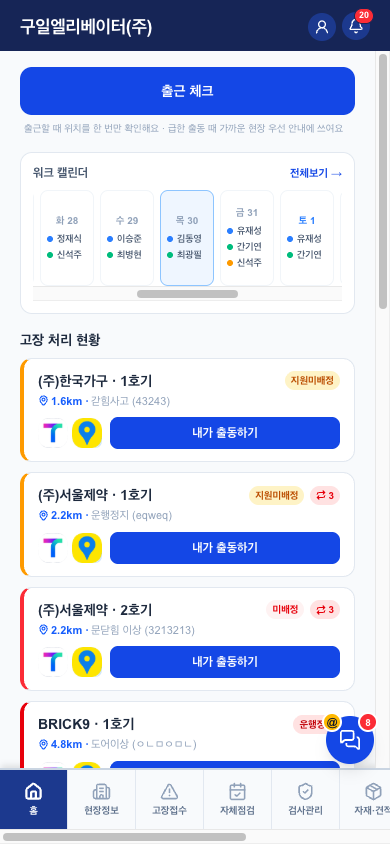
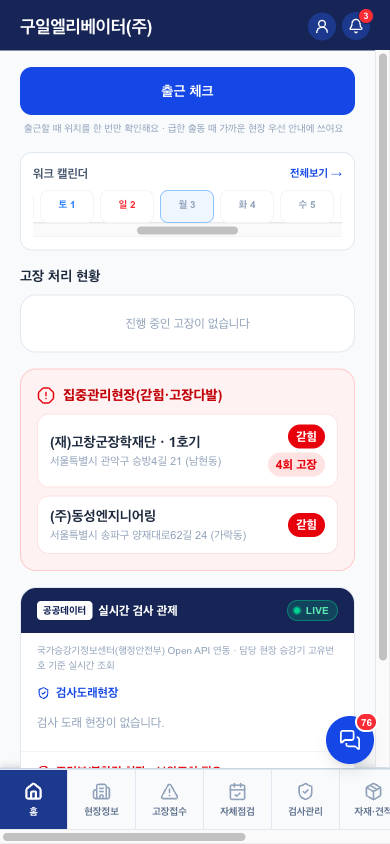
설계 문서: 공통 내비게이션 추가 + 앱 변경 반영(사이트맵 v0.2·유저플로우 v0.3)
- 모든 문서 상단에 고정 내비(설계 허브·01 PRD·02 유저플로우·03 화면지도 | 화면설계) — 현재 문서는 강조,
  screens/ 하위는 상대경로(../) 처리. 문서 간 이동이 안 돼 허브로 되돌아가야 했던 불편 해소
- 사이트맵 v0.2: 우리방→게시판 명칭 통일, 티맵·카카오 길안내 제거, 대시보드(오늘 처리할 것·미청구 KPI)·
  자재견적 취소·알림설정 27종·현장정보 업로드 도구 3종 반영
- 유저플로우 v0.3: 게시판 명칭, 고객 문자 자동발송 없음으로 정정(기능 미구현), 알림 27종·테스트 발송

diff --git a/docs/design/03-sitemap.html b/docs/design/03-sitemap.html
@@ -19,7 +19,8 @@
 </head>
 <body>
 <main>
-  <h1>화면 지도 (사이트맵) <span class="badge doing">v0.1</span></h1>
+  <nav class="docnav"><a href="index.html" class="home">설계 허브</a><span class="sep">·</span><a href="01-prd.html">01 PRD</a><span class="sep">·</span><a href="02-userflow.html">02 유저플로우</a><span class="sep">·</span><a href="03-sitemap.html" class="here">03 화면지도</a><span class="sep">|</span><span class="sep" style="font-size:11px">화면설계</span><a href="screens/login.html">로그인</a></nav>
+  <h1>화면 지도 (사이트맵) <span class="badge doing">v0.2</span></h1>
   <p class="doc-meta">2026-07-30 · 실제 앱 코드 기준 전체 화면 목록과 이동 구조 · <a href="index.html">← 설계 허브로</a></p>
 
   <h2>0. 진입점 3개</h2>
@@ -36,7 +37,7 @@
       <ul>
         <li><b>홈</b> <span class="d">— 출근 체크, 처리현황 요약, 집중관리 현장, 실시간 검사, 내 할일·당직. 고장 카드는 고장접수 탭과 공유</span></li>
         <li><b>현장정보</b> <span class="d">— 현장 목록·검색 → 현장 상세(호기·담당자·계약·사진) → 승강기(호기) 상세</span></li>
-        <li><b>고장접수</b> <span class="d">— 접수 폼(4단계 스텝), 미배정/진행중/완료 카드, 출동 응답·도착·처리결과, 티맵·카카오 길안내</span></li>
+        <li><b>고장접수</b> <span class="d">— 접수 폼(4단계 스텝), 미배정/진행중/완료 카드, 출동 응답·도착·처리결과</span></li>
         <li><b>자체점검</b> <span class="d">— 월별 점검 계획·수행·기록 (공단 제출 체계), 점검항목 체크</span></li>
         <li><b>검사관리</b> <span class="d">— 국가승강기정보센터 연동: 검사 도래 현장, 조건부/불합격 상세</span></li>
         <li><b>자재·견적</b> <span class="d">— 자재신청 / 견적요청 / 상비부품(재고·보충) 3개 서브탭, 신청 상세 시트</span></li>
@@ -47,8 +48,8 @@
     </li>
     <li><b>플로팅 버튼 (모든 탭 위)</b>
       <ul>
-        <li><b>우리방(게시판)</b> <span class="d">— 글·댓글·사진·좋아요, @멘션, 공지 등록. 연필 FAB로 글쓰기</span></li>
-        <li><b>관리자 모드 퀵버튼</b> <span class="badge gate">관리자만</span> <span class="d">— 우리방 FAB 위에 표시</span>
+        <li><b>게시판</b> <span class="d">— 글·댓글·사진·좋아요, @멘션, 공지 등록. 연필 FAB로 글쓰기. 알림을 누르면 그 글로 바로 이동</span></li>
+        <li><b>관리자 모드 퀵버튼</b> <span class="badge gate">관리자만</span> <span class="d">— 게시판 FAB 위에 표시</span>
           <ul>
             <li><b>관리자 모드 (모바일)</b> <span class="d">— 처리대기 요약 대시보드, 자재 출하·견적·상비·재배정 요청 처리(아코디언+스와이프), 할일·비용청구 화면 재사용</span></li>
           </ul>
@@ -68,19 +69,19 @@
     <li><b>관리자 로그인</b> <span class="d">— role=admin만 통과. 첫 로그인이면 강제 비밀번호 변경</span></li>
     <li><b>사이드바 메뉴 (13개)</b>
       <ul>
-        <li><b>대시보드</b> <span class="d">— 실시간 고장 현황, 고장 접수·배정, 기사 위치 지도(관제), 출근 현황</span></li>
-        <li><b>현장정보</b> <span class="d">— 현장·호기·담당자·계약 관리, 설치장소 입력, 엑셀 업로드, 지도 모달</span></li>
+        <li><b>대시보드</b> <span class="d">— <mark class="changed">오늘 처리할 것(승인대기 큐)</mark>, 실시간 고장 현황, 고장 접수·배정, 기사 위치 지도(관제), 출근 현황, <mark class="changed">30일 초과 미청구 KPI</mark></span></li>
+        <li><b>현장정보</b> <span class="d">— 현장·호기·담당자·계약 관리, 설치장소, <mark class="changed">엑셀 일괄등록·검증 업로드·비상통화 번호 업로드</mark>, 계약 필터(운영/만료임박/종료), 지도 모달</span></li>
         <li><b>고장관리</b> <span class="d">— 전체 고장 표, 접수(스텝 폼)·배정·재배정, 상세</span></li>
         <li><b>에러코드집</b> <span class="d">— 고장구분·에러코드 사전</span></li>
         <li><b>검사관리</b> <span class="d">— 검사 일정·결과, 공단 데이터 캐시</span></li>
-        <li><b>자재·견적 신청내역</b> <span class="d">— 자재/견적/상비 승인·지급완료(할일 자동 생성), 견적 발행·이메일 발송(발송 이력)</span></li>
+        <li><b>자재·견적 신청내역</b> <span class="d">— 자재/견적/상비 승인·지급완료(할일 자동 생성), <mark class="changed">신청 취소</mark>, 견적 발행·이메일/알림톡 발송(발송 이력)</span></li>
         <li><b>부품교체·공사 내역</b> <span class="d">— 비용청구 검토. 무상 처리·가격 조정 <span class="badge gate">최고관리자만</span></span></li>
         <li><b>할 일 관리</b> <span class="d">— 전체 할일, 배정·재배정 요청 처리</span></li>
         <li><b>자체점검 현황</b> <span class="d">— 월별 진행률, 점검 기록 열람</span></li>
-        <li><b>게시판</b> <span class="d">— 우리방 웹 버전 (글·공지·@멘션)</span></li>
+        <li><b>게시판</b> <span class="d">— 모바일 게시판의 웹 버전 (글·공지·@멘션·댓글)</span></li>
         <li><b>인사관리</b> <span class="d">— 하위 탭: 직원(등록·수정) / 연차(승인·차감) / 워크캘린더. 관리자 등록·비번 초기화·당직표 생성 <span class="badge gate">최고관리자만</span></span></li>
         <li><b>통계</b> <span class="d">— 고장·처리 통계 (구일 전용 문구 있음 → 화이트라벨 대상)</span></li>
-        <li><b>알림 설정</b> <span class="badge gate">최고관리자만</span> <span class="d">— 회사 알림 정책(종류별 켬/끔·등급) — 개인 설정보다 우선</span></li>
+        <li><b>알림 설정</b> <span class="badge gate">최고관리자만</span> <span class="d">— 회사 알림 정책 <mark class="changed">27종</mark>(켬/끔·등급·<mark class="changed">받는 관리자 등급 지정·테스트 발송</mark>) — 개인 설정보다 우선</span></li>
       </ul>
     </li>
     <li><b>사이드바 하단</b> <span class="d">— 내 이름·등급, 비밀번호 변경, 로그아웃</span></li>
@@ -88,9 +89,9 @@
 
   <h2>3. 화면 간 이동 규칙</h2>
   <ul>
-    <li><b>모바일</b>: 하단 탭 = 큰 이동 / 탭 안에서 목록 → 상세는 드릴다운(뒤로가기) / 우리방·관리자모드는 플로팅 버튼 / 알림 탭하면 관련 화면으로 이동</li>
+    <li><b>모바일</b>: 하단 탭 = 큰 이동 / 탭 안에서 목록 → 상세는 드릴다운(뒤로가기) / 게시판·관리자모드는 플로팅 버튼 / 알림 탭하면 관련 화면으로 이동</li>
     <li><b>교차 참조 3곳 (코드 공유)</b>: 홈 ↔ 고장접수(고장 카드·모달 공유) / 관리자모드 → 할일관리 화면 / 관리자모드 → 비용청구 내역 화면. <span class="d">더 늘리지 않는 게 규칙 (컴포넌트 규칙 문서)</span></li>
-    <li><b>같은 데이터, 두 화면</b>: 게시판(모바일 우리방=콘솔 게시판), 고장(모바일 카드=콘솔 표), 자재(모바일 신청=콘솔 처리) — 한쪽에서 바꾸면 다른 쪽도 같은 DB를 봄</li>
+    <li><b>같은 데이터, 두 화면</b>: 게시판(모바일=콘솔), 고장(모바일 카드=콘솔 표), 자재(모바일 신청=콘솔 처리) — 한쪽에서 바꾸면 다른 쪽도 같은 DB를 봄</li>
   </ul>
 
   <h2>4. 다음 단계 — 화면설계서(screens/)와 연결</h2>
@@ -100,6 +101,7 @@
   <h2>변경 이력</h2>
   <table>
     <tr><th>버전</th><th>날짜</th><th>변경</th></tr>
+    <tr><td>v0.2</td><td>2026-08-03</td><td>앱 변경 반영 — 우리방→게시판 명칭 통일, 티맵·카카오 길안내 제거, 대시보드(오늘 처리할 것·미청구 KPI)·자재견적 취소·알림설정 27종·현장정보 업로드 도구 3종 추가</td></tr>
     <tr><td>v0.1</td><td>2026-07-30</td><td>최초 작성 — 진입점 3개, 모바일 탭 9+플로팅+헤더, 콘솔 메뉴 13, 이동 규칙</td></tr>
   </table>
 </main>

diff --git a/docs/design/02-userflow.html b/docs/design/02-userflow.html
@@ -19,7 +19,8 @@
 </head>
 <body>
 <main>
-  <h1>유저플로우 <span class="badge doing">v0.2</span></h1>
+  <nav class="docnav"><a href="index.html" class="home">설계 허브</a><span class="sep">·</span><a href="01-prd.html">01 PRD</a><span class="sep">·</span><a href="02-userflow.html" class="here">02 유저플로우</a><span class="sep">·</span><a href="03-sitemap.html">03 화면지도</a><span class="sep">|</span><span class="sep" style="font-size:11px">화면설계</span><a href="screens/login.html">로그인</a></nav>
+  <h1>유저플로우 <span class="badge doing">v0.3</span></h1>
   <p class="doc-meta">2026-07-30 · 실제 앱 동작 기준 3개 흐름 · <a href="index.html">← 설계 허브로</a></p>
 
   <div class="legend">
@@ -40,7 +41,7 @@
     <div class="step"><span class="actor eng">기사</span><b>현장에서 부품이 필요해지면</b>
       <span class="note">자재신청(사진 포함) 또는 견적요청 / 상비부품 쓰면 재고 자동 차감 + 보충 신청</span>
       <span class="push">알림 → 관리자: 자재·견적 신청 들어옴</span></div>
-    <div class="step"><span class="actor eng">기사</span><b>우리방·알림 확인</b>
+    <div class="step"><span class="actor eng">기사</span><b><mark class="changed">게시판</mark>·알림 확인</b>
       <span class="note">공지·멘션 확인, 필요하면 글·댓글. 연차 신청·근무 교환은 워크캘린더에서</span></div>
     <div class="step"><span class="actor eng">기사</span><b>근무 종료</b>
       <span class="note">17:30 이후 종료 버튼 강조. 당직·숙직이면 그 버튼이 자동으로 뜸 — 숙직은 다음날 아침 마감</span></div>
@@ -65,7 +66,7 @@
       <span class="note">미배정 15분 지속 → 관리자에게 1회 / 배정 후 5분 미응답 → 기사+관리자에게 5분마다(최대 30분)</span></div>
     <div class="step"><span class="actor eng">기사</span><b>출동 응답 — 도착 예정시간(ETA) 입력</b>
       <span class="note">상태 진행중으로. 출발 위치 기록. 못 가면 "거부"(사유) → 미배정 환원 + 관리자 알림</span>
-      <span class="push">문자 → 고객: "기사가 N분 후 도착 예정" / 길안내: 티맵·카카오 버튼</span></div>
+      <span class="push"><mark class="changed">문자 발송은 아직 없음(수동 안내)</mark></span></div>
     <div class="step"><span class="actor eng">기사</span><b>현장 도착</b>
       <span class="note">도착 버튼 → 도착시각·위치 기록 (내 마지막 위치가 이 현장으로 갱신)</span></div>
     <div class="branch">
@@ -98,12 +99,13 @@
     <div class="step"><span class="actor adm">관리자</span><b>비용청구 확인</b>
       <span class="note">기사가 올린 청구 검토. 최고관리자만: 무상 처리·가격 조정·삭제</span></div>
     <div class="step"><span class="actor adm">관리자</span><b>소통·설정</b>
-      <span class="note">우리방 공지(전원 알림), 회사 알림 정책(어떤 알림을 켤지 — 개인 설정보다 우선)</span></div>
+      <span class="note"><mark class="changed">게시판</mark> 공지(전원 알림), 회사 알림 정책 <mark class="changed">27종</mark>(켤지·등급·받는 관리자 등급 — 개인 설정보다 우선, 테스트 발송 가능)</span></div>
   </div>
 
   <h2>변경 이력</h2>
   <table>
     <tr><th>버전</th><th>날짜</th><th>변경</th></tr>
+    <tr><td>v0.3</td><td>2026-08-03</td><td>앱 변경 반영 — 우리방→게시판, 고객 문자 자동발송 없음(기능 미구현)으로 정정, 알림 정책 27종·테스트 발송 반영</td></tr>
     <tr><td>v0.2</td><td>2026-07-30</td><td>차호근 피드백 — 흐름 2 배정 분기에 "기사 본인 즉시 출동" 경로 추가 (기사 접수 시 기본 본인 배정, ETA 동시 입력이면 접수=출동)</td></tr>
     <tr><td>v0.1</td><td>2026-07-30</td><td>최초 작성 — 기사의 하루 / 고장 한 건의 일생 / 관리자의 하루</td></tr>
   </table>

diff --git a/docs/design/style.css b/docs/design/style.css
@@ -102,3 +102,12 @@ mark.changed { background: var(--warn-soft); color: var(--warn-ink); padding: 0 
 .connect .node.this { color: var(--accent); font-weight: 700; }
 .connect .node .ph { width: 104px; height: 188px; border: 1px dashed var(--line); border-radius: 10px; display: flex; align-items: center; justify-content: center; color: var(--faint); font-size: 11px; margin: 0 auto 4px; padding: 6px; text-align: center; }
 .connect .arrow { color: var(--faint); font-size: 18px; padding-bottom: 18px; }
+
+/* 문서 공통 내비게이션 — 모든 설계 문서 맨 위. 현재 문서는 .here로 강조 */
+.docnav { display: flex; flex-wrap: wrap; gap: 2px; align-items: center; margin: -24px -24px 28px; padding: 10px 24px; background: var(--card); border-bottom: 1px solid var(--line); position: sticky; top: 0; z-index: 10; }
+.docnav a { font-size: 13px; font-weight: 600; color: var(--sub); padding: 5px 10px; border-radius: 7px; text-decoration: none; white-space: nowrap; }
+.docnav a:hover { background: var(--accent-soft); color: var(--accent); text-decoration: none; }
+.docnav a.here { background: var(--accent); color: #fff; }
+.docnav .sep { color: var(--line); padding: 0 4px; user-select: none; }
+.docnav .home { font-weight: 800; color: var(--ink); }
+@media (max-width: 640px) { .docnav { margin: -24px -16px 20px; padding: 8px 16px; } .docnav a { font-size: 12px; padding: 4px 7px; } }

diff --git a/docs/design/screens/login.html b/docs/design/screens/login.html
@@ -19,6 +19,7 @@
 </head>
 <body>
 <main>
+  <nav class="docnav"><a href="../index.html" class="home">설계 허브</a><span class="sep">·</span><a href="../01-prd.html">01 PRD</a><span class="sep">·</span><a href="../02-userflow.html">02 유저플로우</a><span class="sep">·</span><a href="../03-sitemap.html">03 화면지도</a><span class="sep">|</span><span class="sep" style="font-size:11px">화면설계</span><a href="../screens/login.html" class="here">로그인</a></nav>
   <h1>로그인 <span class="badge doing">v0.1</span></h1>
   <p class="doc-meta">화면설계서 · 코드 <code>LoginScreen.jsx</code> + <code>ElevatorFieldApp.jsx(handleLogin)</code> + RPC <code>verify_login</code>(마이그 067) · <a href="../index.html">← 설계 허브</a> · <a href="../03-sitemap.html">화면 지도</a></p>
 

diff --git a/docs/design/01-prd.html b/docs/design/01-prd.html
@@ -18,6 +18,7 @@
 </head>
 <body>
 <main>
+  <nav class="docnav"><a href="index.html" class="home">설계 허브</a><span class="sep">·</span><a href="01-prd.html" class="here">01 PRD</a><span class="sep">·</span><a href="02-userflow.html">02 유저플로우</a><span class="sep">·</span><a href="03-sitemap.html">03 화면지도</a><span class="sep">|</span><span class="sep" style="font-size:11px">화면설계</span><a href="screens/login.html">로그인</a></nav>
   <h1>PRD — 제품 정의서 <span class="badge doing">v0.2</span></h1>
   <p class="doc-meta">2026-07-30 · 작성 차호근+클로드 · 독자: 차호근·ssj910 (내부 기준서) · <a href="index.html">← 설계 허브로</a></p>
 

diff --git a/docs/design/index.html b/docs/design/index.html
@@ -8,6 +8,7 @@
 </head>
 <body>
 <main>
+  <nav class="docnav"><a href="index.html" class="home here">설계 허브</a><span class="sep">·</span><a href="01-prd.html">01 PRD</a><span class="sep">·</span><a href="02-userflow.html">02 유저플로우</a><span class="sep">·</span><a href="03-sitemap.html">03 화면지도</a><span class="sep">|</span><span class="sep" style="font-size:11px">화면설계</span><a href="screens/login.html">로그인</a></nav>
   <h1>설계 허브</h1>
   <p class="doc-meta">승강기 유지보수 현장관리 서비스 — 기획·화면설계·화이트라벨 설계도의 목차. 브라우저로 열어 보는 내부 문서(배포 안 됨).</p>
 
